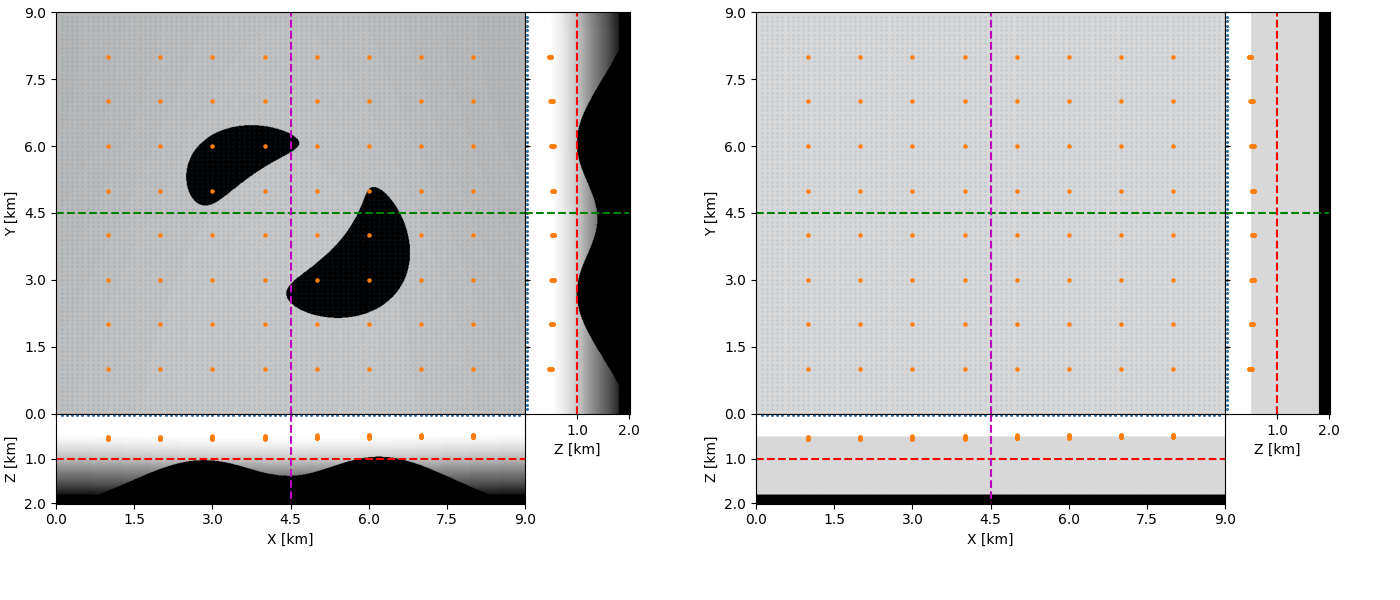
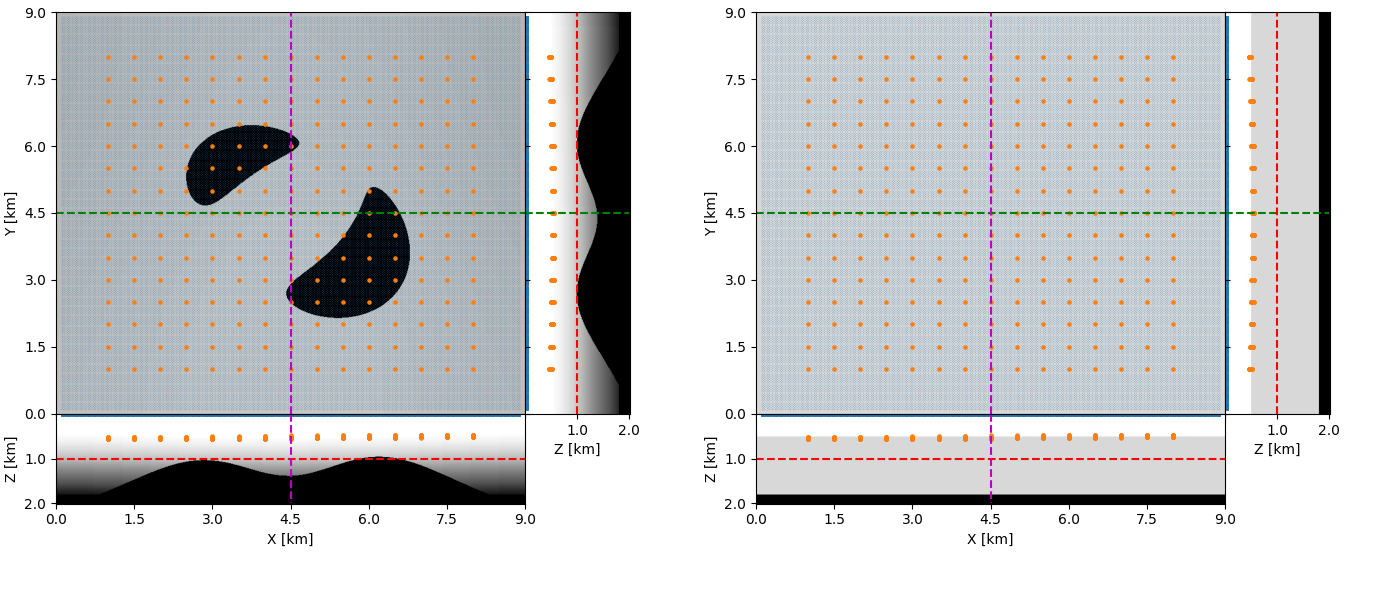
new dataset concluded

Changed region(s): [[0.5529, 0.03, 0.8907, 0.69], [0.0614, 0.03, 0.3993, 0.69]]

diff --git a/main/analysis/2_experiment_config.py b/main/analysis/2_experiment_config.py
@@ -44,8 +44,8 @@ waterBottom[i,j] = base/dz
 
 # Defining geometry with topography
 
-node_xline = 8
-node_yline = 8
+node_xline = 15
+node_yline = 15
 node_all = node_xline * node_yline
 
 node_x = np.linspace(1000, 8000, node_xline)
@@ -56,14 +56,14 @@ for i in range(node_yline):
     for j in range(node_xline):
         node_z[i + node_yline*j] = dz*waterBottom[int(node_y[i]/dy),int(node_x[j]/dx)]
 
-node_z.astype("float32", order = "F").tofile(f"../../inputs/geometry/nodesTopography_{node_all}.bin")
+node_z.astype("float32", order = "F").tofile(f"../../inputs/geometry/nodesTopography.bin")
 
 node_x, node_y = np.meshgrid(node_x, node_y)
 node_x = np.reshape(node_x, [node_all])
 node_y = np.reshape(node_y, [node_all])
 
-shot_xline = 89
-shot_yline = 89
+shot_xline = 177
+shot_yline = 177
 shot_all = shot_xline * shot_yline
 
 shot_x = np.linspace(100, 8900, shot_xline)
